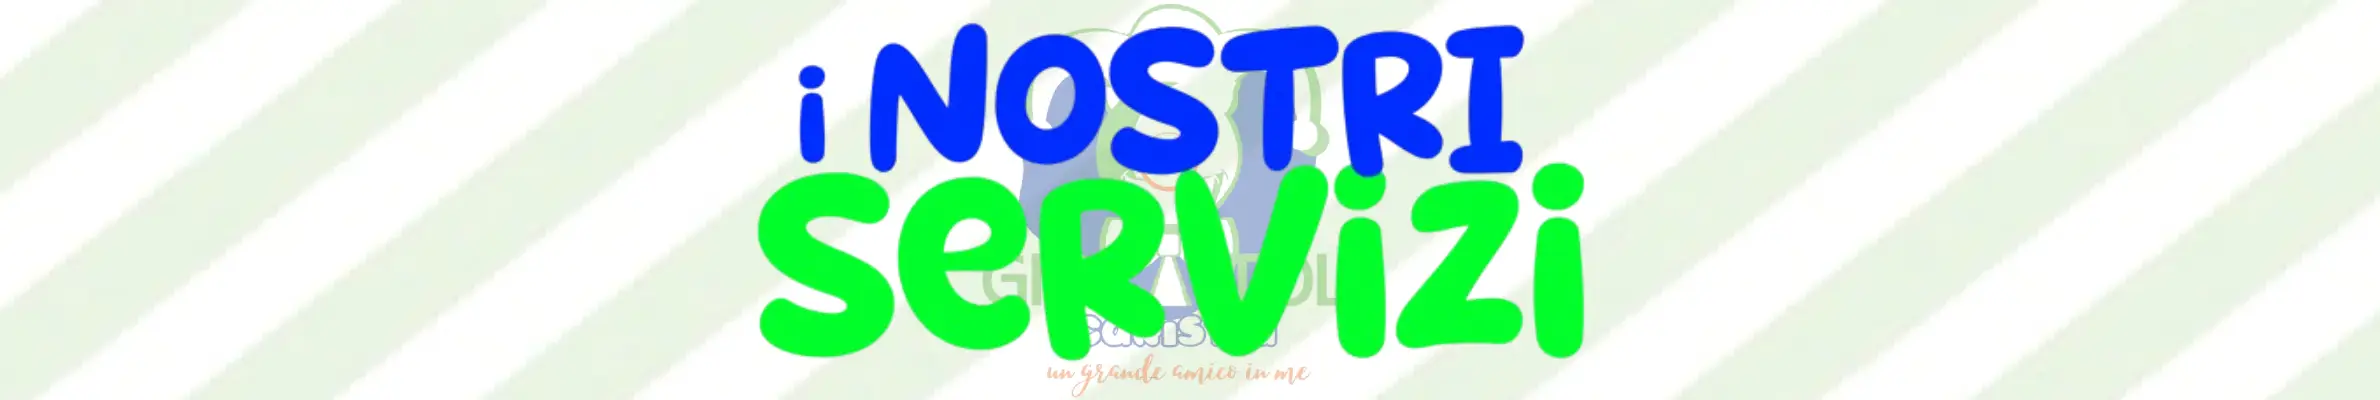
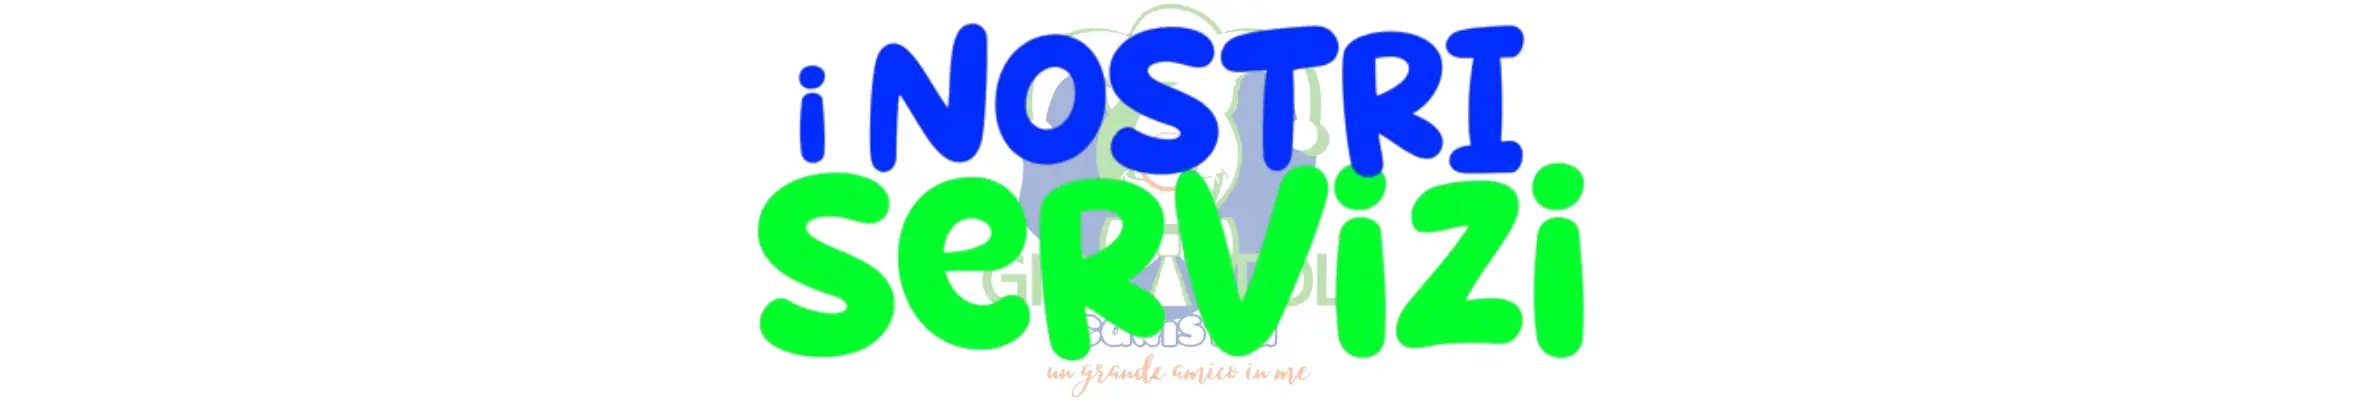
commit

diff --git a/src/app/animazione/page.tsx b/src/app/animazione/page.tsx
@@ -56,7 +56,7 @@ export default function Animazione() {
 
       <div className="w-full my-6 px-4 container mx-auto"> 
         <img 
-          src="/divider_servizi.png" 
+          src="/divider_servizi.webp"
           alt="Promozione Giocattoli"
           className="w-full h-auto"
           style={{ maxHeight: "300px" }} 
